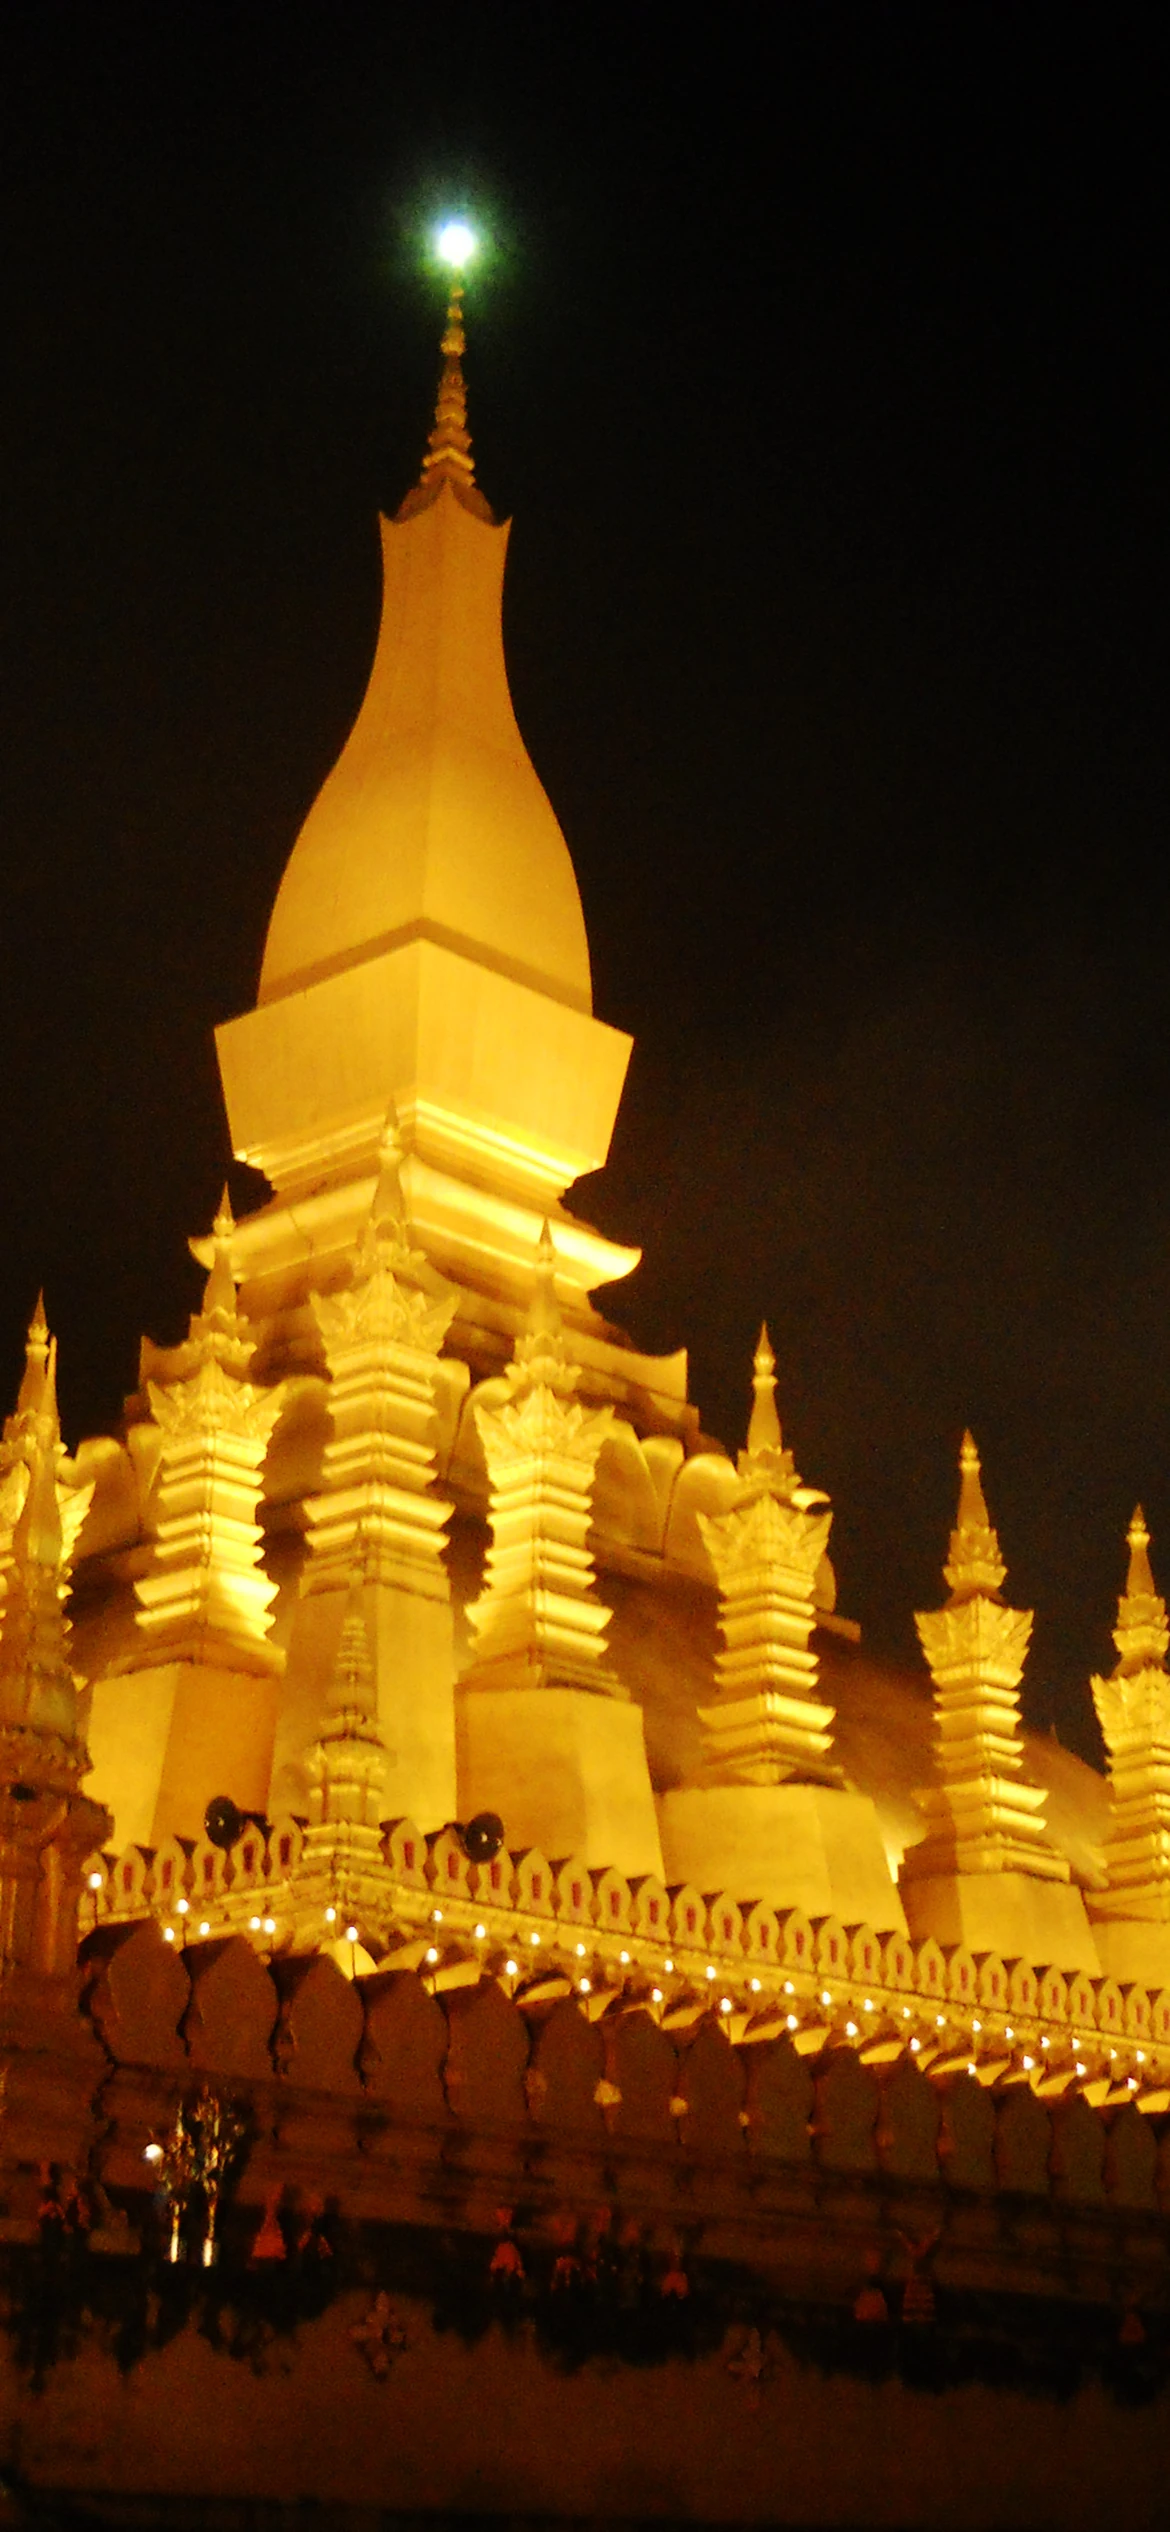
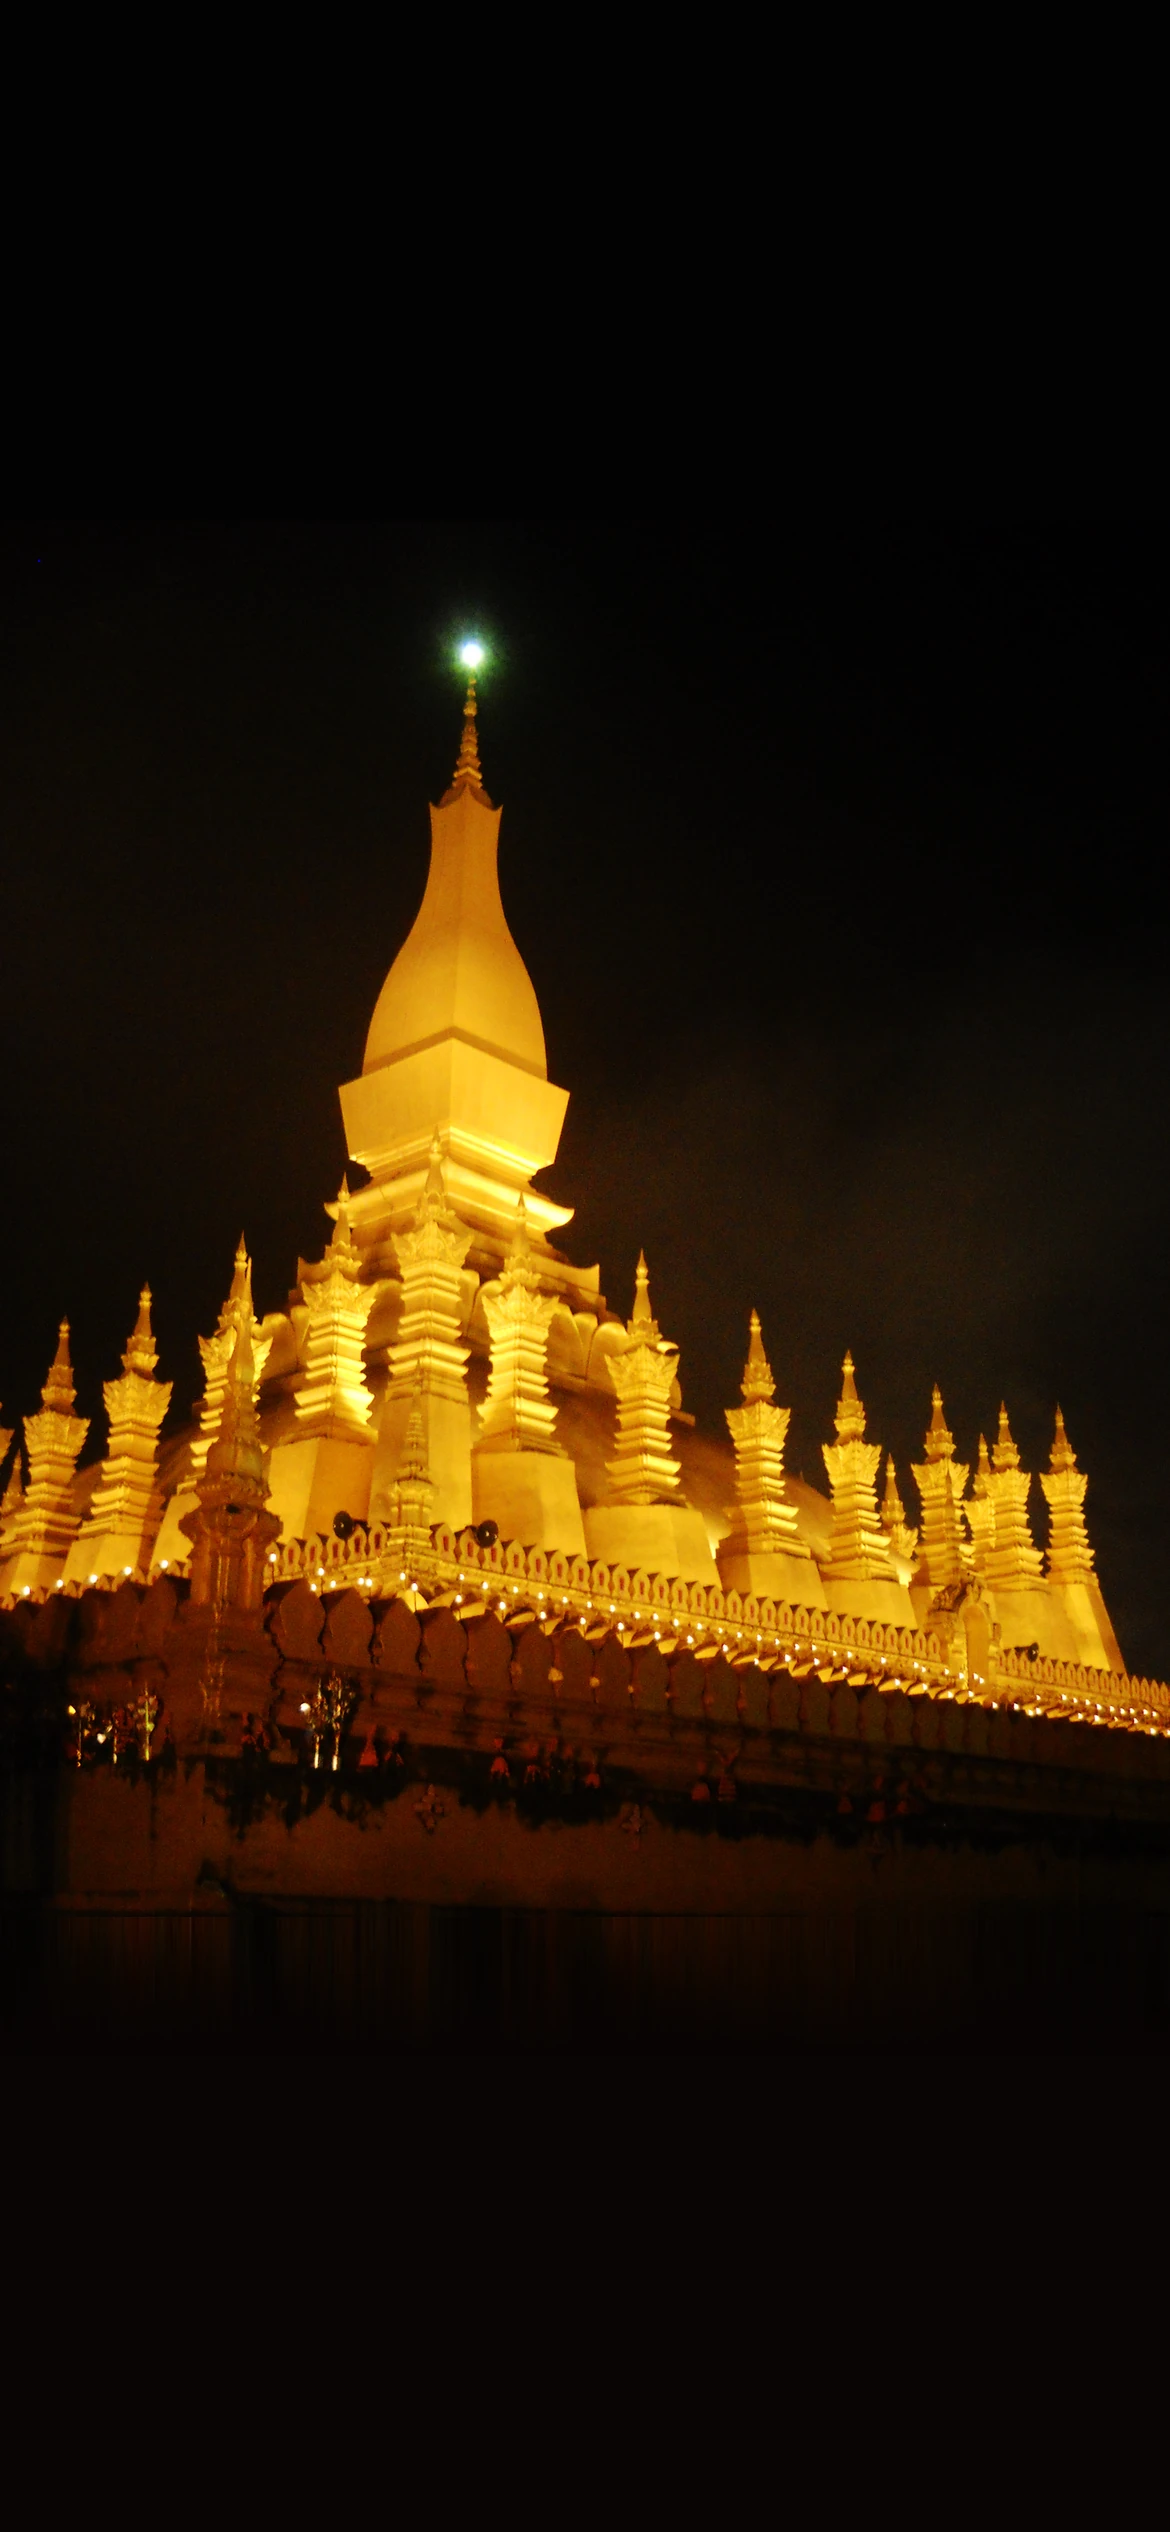
Show the full Pha That Luang on login, with falling gold leaves
Recompose the night photo so the whole stupa and its surroundings sit in the phone frame, letterboxed with night sky, and ease Ken Burns to a 1.0–1.04 scale. Strengthen the falling gold dust and add canvas Bodhi leaves with sway, 3D flips, and shimmer, without touching input ancestors.

diff --git a/online/app.js b/online/app.js
@@ -74,23 +74,166 @@ $('#lobbyMusic').addEventListener('click', musicBtn);
 
 // ================= 登录页金尘 =================
 (function dust() {
-  const c = $('#dust'), g = c.getContext('2d'); let W, H, P = [];
+  const c = $('#dust'), g = c.getContext('2d');
+  const login = $('#login');
   const reduce = matchMedia('(prefers-reduced-motion: reduce)').matches;
-  const size = () => { const d = Math.min(devicePixelRatio || 1, 2); W = c.clientWidth; H = c.clientHeight; c.width = W * d; c.height = H * d; g.setTransform(d, 0, 0, d, 0, 0); };
+  let W, H, dpr = 1, last = 0;
+  const size = () => {
+    dpr = Math.min(devicePixelRatio || 1, 2);
+    W = c.clientWidth; H = c.clientHeight;
+    c.width = W * dpr; c.height = H * dpr;
+    g.setTransform(dpr, 0, 0, dpr, 0, 0);
+  };
   size(); addEventListener('resize', size);
-  for (let i = 0; i < (reduce ? 22 : 52); i++) P.push({ x: Math.random(), y: Math.random(), r: 0.5 + Math.random() * 1.8, s: 0.00012 + Math.random() * 0.00045, ph: Math.random() * 6 });
-  const draw = (t) => {
-    if ($('#login').hidden) return;
-    g.clearRect(0, 0, W, H);
-    for (const p of P) {
-      if (!reduce) { p.y -= p.s; if (p.y < -0.02) { p.y = 1.02; p.x = Math.random(); } }
-      const a = 0.22 + 0.38 * Math.sin((reduce ? p.ph : t / 900 + p.ph));
-      const ox = reduce ? 0 : Math.sin(t / 2000 + p.ph) * 8;
-      g.fillStyle = `rgba(240,200,120,${a})`; g.beginPath(); g.arc(p.x * W + ox, p.y * H, p.r, 0, 7); g.fill();
+
+  function bodhiPath(ctx, tw, th) {
+    ctx.beginPath();
+    ctx.moveTo(0, th * 0.68);
+    ctx.bezierCurveTo(-tw * 1.15, th * 0.78, -tw * 1.2, th * 0.12, -tw * 0.62, -th * 0.1);
+    ctx.bezierCurveTo(-tw * 0.32, -th * 0.46, -tw * 0.13, -th * 0.76, 0, -th);
+    ctx.bezierCurveTo(tw * 0.13, -th * 0.76, tw * 0.32, -th * 0.46, tw * 0.62, -th * 0.1);
+    ctx.bezierCurveTo(tw * 1.2, th * 0.12, tw * 1.15, th * 0.78, 0, th * 0.68);
+    ctx.closePath();
+  }
+  function makeLeaf(w, h, blur, back) {
+    const pad = Math.ceil((blur || 0) * 2) + 8;
+    const sc = document.createElement('canvas');
+    sc.width = Math.ceil(w + pad * 2); sc.height = Math.ceil(h + pad * 2);
+    const s = sc.getContext('2d');
+    const draw = (ctx) => {
+      ctx.save();
+      ctx.translate(pad + w / 2, pad + h / 2);
+      bodhiPath(ctx, w / 2, h / 2);
+      const gr = ctx.createLinearGradient(-w / 2, -h / 2, w / 2, h / 2);
+      if (back) {
+        gr.addColorStop(0, '#5a340c'); gr.addColorStop(0.45, '#c48a2c'); gr.addColorStop(1, '#6a4010');
+      } else {
+        gr.addColorStop(0, '#7a4a12'); gr.addColorStop(0.28, '#e8b44a'); gr.addColorStop(0.5, '#fff4c4');
+        gr.addColorStop(0.72, '#d4a03a'); gr.addColorStop(1, '#8a5010');
+      }
+      ctx.fillStyle = gr; ctx.fill();
+      ctx.strokeStyle = back ? 'rgba(90,50,12,.45)' : 'rgba(255,220,140,.35)';
+      ctx.lineWidth = Math.max(0.7, w * 0.03); ctx.stroke();
+      ctx.strokeStyle = back ? 'rgba(255,210,130,.28)' : 'rgba(255,236,180,.7)';
+      ctx.lineWidth = Math.max(0.9, w * 0.04);
+      ctx.beginPath(); ctx.moveTo(0, h * 0.32); ctx.quadraticCurveTo(0, 0, 0, -h * 0.42); ctx.stroke();
+      ctx.strokeStyle = 'rgba(255,220,150,.32)'; ctx.lineWidth = Math.max(0.5, w * 0.018);
+      for (const side of [-1, 1]) {
+        ctx.beginPath(); ctx.moveTo(0, h * 0.12); ctx.quadraticCurveTo(side * w * 0.12, h * 0.02, side * w * 0.22, -h * 0.02); ctx.stroke();
+        ctx.beginPath(); ctx.moveTo(0, -h * 0.06); ctx.quadraticCurveTo(side * w * 0.1, -h * 0.14, side * w * 0.16, -h * 0.2); ctx.stroke();
+      }
+      if (!back) {
+        bodhiPath(ctx, w / 2, h / 2); ctx.save(); ctx.clip();
+        const hi = ctx.createLinearGradient(-w * 0.4, -h * 0.5, w * 0.5, h * 0.3);
+        hi.addColorStop(0, 'rgba(255,255,230,0)'); hi.addColorStop(0.45, 'rgba(255,250,210,.55)'); hi.addColorStop(0.55, 'rgba(255,255,240,0)');
+        ctx.fillStyle = hi; ctx.fillRect(-w, -h, w * 2, h * 2);
+        ctx.restore();
+      }
+      ctx.restore();
+    };
+    if (blur) {
+      const tmp = document.createElement('canvas'); tmp.width = sc.width; tmp.height = sc.height;
+      const t = tmp.getContext('2d'); draw(t);
+      s.filter = `blur(${blur}px)`; s.drawImage(tmp, 0, 0); s.filter = 'none';
+    } else draw(s);
+    return sc;
+  }
+  // depth layers: far (small, soft), mid (sharp), near (large, slight blur)
+  const sprites = {
+    far:  { f: makeLeaf(22, 34, 0.9, false), b: makeLeaf(22, 34, 0.9, true) },
+    mid:  { f: makeLeaf(36, 56, 0, false),   b: makeLeaf(36, 56, 0, true) },
+    near: { f: makeLeaf(56, 88, 0.8, false), b: makeLeaf(56, 88, 0.8, true) },
+  };
+
+  const dustN = reduce ? 20 : 130;
+  const leafN = reduce ? 4 : 22;
+  const D = [], L = [];
+  for (let i = 0; i < dustN; i++) {
+    const glow = !reduce && Math.random() < 0.22;
+    D.push({
+      x: Math.random(), y: Math.random(),
+      r: glow ? 1.6 + Math.random() * 2.4 : 0.7 + Math.random() * 1.8,
+      s: 0.00005 + Math.random() * 0.00014, // per ms, fall a screen in ~5–14s
+      ph: Math.random() * 6, sway: 6 + Math.random() * 18,
+      glow, a: 0.35 + Math.random() * 0.5,
+    });
+  }
+  const kinds = ['far','far','far','far','far','far','mid','mid','mid','mid','mid','mid','mid','mid','near','near','near','near','mid','near','far','near'];
+  for (let i = 0; i < leafN; i++) {
+    const kind = kinds[i % kinds.length];
+    const size = kind === 'near' ? 0.85 + Math.random() * 0.45 : kind === 'mid' ? 0.7 + Math.random() * 0.5 : 0.55 + Math.random() * 0.45;
+    L.push({
+      kind, size,
+      x: Math.random(), y: Math.random() * 1.2 - 0.1,
+      s: (kind === 'near' ? 0.00007 : kind === 'mid' ? 0.00005 : 0.000035) + Math.random() * 0.00005,
+      rot: Math.random() * 6, spin: (Math.random() * 0.002 - 0.001),
+      flip: Math.random() * 6, flipS: 0.0007 + Math.random() * 0.0018,
+      ph: Math.random() * 6, sway: (kind === 'near' ? 22 : 14) + Math.random() * 24,
+      swayT: 1800 + Math.random() * 1800,
+    });
+  }
+
+  const drawDust = (p, t, moving) => {
+    const ox = moving ? Math.sin(t / 900 + p.ph) * p.sway : 0;
+    const a = p.a * (0.72 + 0.28 * Math.sin((moving ? t / 700 : 0) + p.ph));
+    const x = p.x * W + ox, y = p.y * H;
+    if (p.glow) {
+      const rad = g.createRadialGradient(x, y, 0, x, y, p.r * 4);
+      rad.addColorStop(0, `rgba(255,236,180,${a})`);
+      rad.addColorStop(0.35, `rgba(240,196,110,${a * 0.55})`);
+      rad.addColorStop(1, 'rgba(240,180,80,0)');
+      g.fillStyle = rad; g.beginPath(); g.arc(x, y, p.r * 4, 0, 7); g.fill();
+    }
+    g.fillStyle = `rgba(255,220,140,${Math.min(1, a + 0.15)})`;
+    g.beginPath(); g.arc(x, y, p.r, 0, 7); g.fill();
+  };
+
+  const drawLeaf = (lf, t, moving) => {
+    const ox = moving ? Math.sin(t / lf.swayT + lf.ph) * lf.sway : 0;
+    const flip = moving ? Math.cos(t * lf.flipS + lf.flip) : Math.cos(lf.flip);
+    const back = flip < 0;
+    const sx = Math.max(0.12, Math.abs(flip));
+    const spr = sprites[lf.kind][back ? 'b' : 'f'];
+    const sh = 0.45 + 0.55 * Math.abs(Math.sin((moving ? t / 500 : 0) + lf.ph)); // shimmer
+    g.save();
+    g.translate(lf.x * W + ox, lf.y * H);
+    g.rotate(lf.rot);
+    g.scale(sx * lf.size, lf.size);
+    g.globalAlpha = (lf.kind === 'far' ? 0.72 : lf.kind === 'near' ? 0.96 : 0.88) * (0.75 + 0.25 * sh);
+    g.drawImage(spr, -spr.width / 2, -spr.height / 2);
+    g.restore();
+  };
+
+  const step = (dt) => {
+    for (const p of D) {
+      p.y += p.s * dt;
+      if (p.y > 1.06) { p.y = -0.06; p.x = Math.random(); }
+    }
+    for (const lf of L) {
+      lf.y += lf.s * dt;
+      lf.rot += lf.spin * dt;
+      if (lf.y > 1.15) { lf.y = -0.12; lf.x = Math.random(); }
     }
   };
+
+  const draw = (t) => {
+    g.clearRect(0, 0, W, H);
+    // far dust, far leaves, mid dust, mid+near leaves — depth
+    for (const p of D) if (!p.glow) drawDust(p, t, !reduce);
+    for (const lf of L) if (lf.kind === 'far') drawLeaf(lf, t, !reduce);
+    for (const p of D) if (p.glow) drawDust(p, t, !reduce);
+    for (const lf of L) if (lf.kind !== 'far') drawLeaf(lf, t, !reduce);
+  };
+
   if (reduce) { draw(0); return; }
-  (function f(t) { draw(t); requestAnimationFrame(f); })(0);
+  const loop = (t) => {
+    if (login.hidden) { last = 0; setTimeout(() => requestAnimationFrame(loop), 400); return; }
+    if (!last) last = t;
+    const dt = Math.min(33, t - last); last = t;
+    step(dt); draw(t);
+    requestAnimationFrame(loop);
+  };
+  requestAnimationFrame(loop);
 })();
 
 // ================= 登录 / 注册 =================

diff --git a/online/app.css b/online/app.css
@@ -10,14 +10,14 @@ svg{display:block}
 /* ================= 登录 ================= */
 .login{position:absolute;inset:0;overflow-x:hidden;overflow-y:auto;-webkit-overflow-scrolling:touch;display:flex;align-items:flex-start;justify-content:center;background:#10060c}
 .login-bg{position:fixed;inset:0;overflow:hidden;pointer-events:none;z-index:0}
-.login-bg img{width:100%;height:100%;object-fit:cover;object-position:center top;display:block;
-  transform:scale(1.06);animation:kenburns 32s ease-in-out infinite alternate;will-change:transform}
-@keyframes kenburns{to{transform:scale(1.14) translate3d(0,-1.6%,0)}}
+.login-bg img{width:100%;height:100%;object-fit:cover;object-position:center center;display:block;
+  transform:scale(1);animation:kenburns 36s ease-in-out infinite alternate}
+@keyframes kenburns{to{transform:scale(1.04)}}
 .login-wash{position:fixed;inset:0;pointer-events:none;z-index:1;background:
   linear-gradient(180deg,rgba(0,0,0,.18) 0%,transparent 22%,rgba(0,0,0,.12) 40%,rgba(0,0,0,.32) 62%,rgba(0,0,0,.40) 82%,rgba(0,0,0,.28) 100%)}
 #dust{position:fixed;inset:0;width:100%;height:100%;pointer-events:none;z-index:2}
 @media (prefers-reduced-motion:reduce){
-  .login-bg img{animation:none;transform:scale(1.06)}
+  .login-bg img{animation:none;transform:scale(1)}
 }
 .login-inner{position:relative;z-index:3;width:min(86vw,338px);display:flex;flex-direction:column;align-items:center;padding:26vh 0 8vh;margin:0}
 .t-title{margin:0;font-family:"Noto Serif CJK SC","Noto Serif SC","Songti SC","STSong","SimSun",serif;font-weight:900;font-size:clamp(60px,18vw,86px);letter-spacing:.06em;line-height:1;
